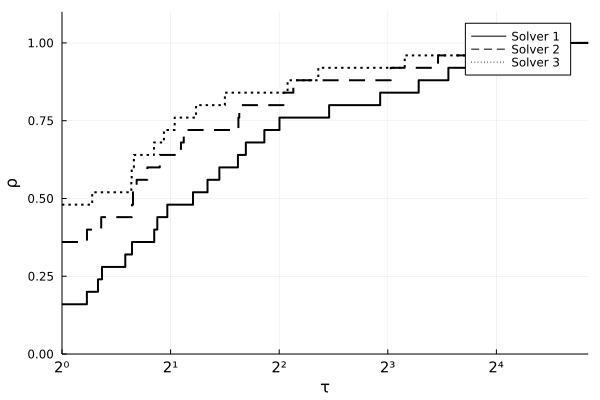
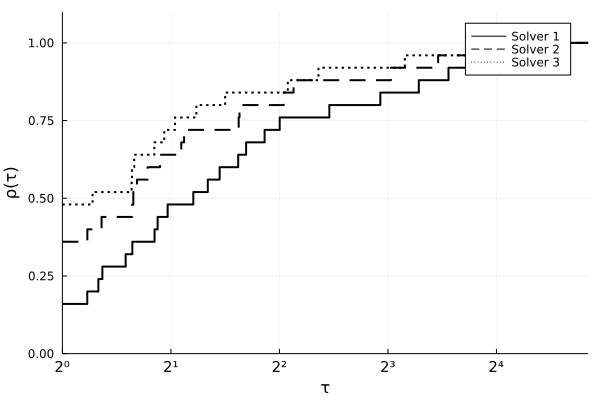
Deploying to gh-pages from  @ ca13c38b1c2d399cf62e2848e1e6c71c44630b0f 🚀

diff --git a/index.html b/index.html
@@ -1,4 +1,4 @@
-<!doctype html> <html lang=en  class=has-navbar-fixed-top > <meta charset=UTF-8 > <meta name=viewport  content="width=device-width, initial-scale=1"> <link rel=stylesheet  href="/libs/highlight/github.min.css"> <link rel=stylesheet  href="/css/styles.css"> <style> html {font-size: 17px;} .franklin-content {position: relative; padding-left: 8%; padding-right: 5%; line-height: 1.35em;} @media (min-width: 940px) { .franklin-content {width: 100%; margin-left: auto; margin-right: auto;} } @media (max-width: 768px) { .franklin-content {padding-left: 6%; padding-right: 6%;} } </style> <link rel=icon  href="/assets/favicon.png"> <title>Introduction to BenchmarkProfiles</title> <script src="/libs/highlight/highlight.pack.js"></script> <script src="https://unpkg.com/clipboard@2/dist/clipboard.min.js"></script> <script type=module  src="https://unpkg.com/ionicons@5.5.2/dist/ionicons/ionicons.esm.js"></script> <script nomodule src="https://unpkg.com/ionicons@5.5.2/dist/ionicons/ionicons.js"></script> <script> hljs.getLanguage('julia').keywords.custom = 'obj grad hess AbstractNLPModel'; </script> <nav class="navbar is-primary is-fixed-top" role=navigation  aria-label="main navigation"> <div class=navbar-brand > <a class=navbar-item  href="https://juliasmoothoptimizers.github.io"> <img src="/assets/jso.png"> </a> <a role=button  class=navbar-burger  aria-label=menu  aria-expanded=false  data-target=navbarBasicExample > <span aria-hidden=true ></span> <span aria-hidden=true ></span> <span aria-hidden=true ></span> </a> </div> <div id=navbarBasicExample  class=navbar-menu > <div class=navbar-start > <a class=navbar-item  href="/"> Home </a> <a class=navbar-item  href="/news-and-blogposts/"> News and Blogposts </a> <a class=navbar-item  href="/tutorials/"> Tutorials </a> <div class="navbar-item has-dropdown is-hoverable"> <a class=navbar-link  href="/ecosystems/index.html"> Ecosystems </a> <div class=navbar-dropdown > <a class=navbar-item  href="/ecosystems/linear-algebra/"> Linear Algebra </a> <a class=navbar-item  href="/ecosystems/models/"> Models </a> <a class=navbar-item  href="/ecosystems/solvers/"> Solvers </a> </div> </div> <a class=navbar-item  href="/references/"> References </a> <a class=navbar-item  href="/contributing/"> Contributing </a> </div> <div class=navbar-end > <div class=navbar-item > </div> </div> </div> </nav> <section class=section > <div class=container > <div class=content ><div class=franklin-content ><h1 id=title ><a href="#title" class=header-anchor >Introduction to BenchmarkProfiles</a></h1></p> <div class=author >by Abel Soares Siqueira and Dominique Orban</div> <p><a href="https://juliasmoothoptimizers.github.io/BenchmarkProfiles.jl/stable/"><img class=badge  src="https://img.shields.io/badge/BenchmarkProfiles-0.4.0-hsl(46,100%25,30%25)?style=flat-square&labelColor=hsl(46,30%25,30%25)"></a> <img class=badge  src="https://img.shields.io/badge/Plots-1.29.0-666?style=flat-square&labelColor=999"> <img class=badge  src="https://img.shields.io/badge/Random-nothing-666?style=flat-square&labelColor=999"> <p>This tutorial is essentially a collection of examples.</p> <h2 id=performance_profile ><a href="#performance_profile" class=header-anchor >Performance Profile</a></h2> <p>Performance profiles are straightforward to use. The input is a matrix <code>T</code> with entries <code>T&#91;i,j&#93;</code> indicating the cost to solve problem <code>i</code> using solver <code>j</code>. Cost can be, for instance, elapsed time, or number of evaluations. The cost should be positive. If any cost is zero, all measures will be shifted by 1.</p> <p>Basic usage:</p> <pre><code class=language-julia >using BenchmarkProfiles, Random, Plots
+<!doctype html> <html lang=en  class=has-navbar-fixed-top > <meta charset=UTF-8 > <meta name=viewport  content="width=device-width, initial-scale=1"> <link rel=stylesheet  href="/libs/highlight/github.min.css"> <link rel=stylesheet  href="/css/styles.css"> <style> html {font-size: 17px;} .franklin-content {position: relative; padding-left: 8%; padding-right: 5%; line-height: 1.35em;} @media (min-width: 940px) { .franklin-content {width: 100%; margin-left: auto; margin-right: auto;} } @media (max-width: 768px) { .franklin-content {padding-left: 6%; padding-right: 6%;} } </style> <link rel=icon  href="/assets/favicon.png"> <title>Introduction to BenchmarkProfiles</title> <script src="/libs/highlight/highlight.pack.js"></script> <script src="https://unpkg.com/clipboard@2/dist/clipboard.min.js"></script> <script type=module  src="https://unpkg.com/ionicons@5.5.2/dist/ionicons/ionicons.esm.js"></script> <script nomodule src="https://unpkg.com/ionicons@5.5.2/dist/ionicons/ionicons.js"></script> <script> hljs.getLanguage('julia').keywords.custom = 'obj grad hess AbstractNLPModel'; </script> <nav class="navbar is-primary is-fixed-top" role=navigation  aria-label="main navigation"> <div class=navbar-brand > <a class=navbar-item  href="https://juliasmoothoptimizers.github.io"> <img src="/assets/jso.png"> </a> <a role=button  class=navbar-burger  aria-label=menu  aria-expanded=false  data-target=navbarBasicExample > <span aria-hidden=true ></span> <span aria-hidden=true ></span> <span aria-hidden=true ></span> </a> </div> <div id=navbarBasicExample  class=navbar-menu > <div class=navbar-start > <a class=navbar-item  href="/"> Home </a> <a class=navbar-item  href="/news-and-blogposts/"> News and Blogposts </a> <a class=navbar-item  href="/tutorials/"> Tutorials </a> <div class="navbar-item has-dropdown is-hoverable"> <a class=navbar-link  href="/ecosystems/index.html"> Ecosystems </a> <div class=navbar-dropdown > <a class=navbar-item  href="/ecosystems/linear-algebra/"> Linear Algebra </a> <a class=navbar-item  href="/ecosystems/models/"> Models </a> <a class=navbar-item  href="/ecosystems/solvers/"> Solvers </a> </div> </div> <a class=navbar-item  href="/references/"> References </a> <a class=navbar-item  href="/contributing/"> Contributing </a> </div> <div class=navbar-end > <div class=navbar-item > </div> </div> </div> </nav> <section class=section > <div class=container > <div class=content ><div class=franklin-content ><h1 id=title ><a href="#title" class=header-anchor >Introduction to BenchmarkProfiles</a></h1></p> <div class=author >by Abel Soares Siqueira and Dominique Orban</div> <p><a href="https://juliasmoothoptimizers.github.io/BenchmarkProfiles.jl/stable/"><img class=badge  src="https://img.shields.io/badge/BenchmarkProfiles-0.4.0-hsl(46,100%25,30%25)?style=flat-square&labelColor=hsl(46,30%25,30%25)"></a> <img class=badge  src="https://img.shields.io/badge/Plots-1.29.1-666?style=flat-square&labelColor=999"> <img class=badge  src="https://img.shields.io/badge/Random-nothing-666?style=flat-square&labelColor=999"> <p>This tutorial is essentially a collection of examples.</p> <h2 id=performance_profile ><a href="#performance_profile" class=header-anchor >Performance Profile</a></h2> <p>Performance profiles are straightforward to use. The input is a matrix <code>T</code> with entries <code>T&#91;i,j&#93;</code> indicating the cost to solve problem <code>i</code> using solver <code>j</code>. Cost can be, for instance, elapsed time, or number of evaluations. The cost should be positive. If any cost is zero, all measures will be shifted by 1.</p> <p>Basic usage:</p> <pre><code class=language-julia >using BenchmarkProfiles, Random, Plots
 
 Random.seed&#33;&#40;0&#41;
 
@@ -9,5 +9,5 @@ performance_profile&#40;PlotsBackend&#40;&#41;, T, &#91;&quot;Solver 1&quot;, &q
 
 T &#61; 10 * rand&#40;25, 3&#41;
 performance_profile&#40;PlotsBackend&#40;&#41;, T, &#91;&quot;Solver 1&quot;, &quot;Solver 2&quot;, &quot;Solver 3&quot;&#93;,
-      lw&#61;2, c&#61;:black, linestyles&#61;&#91;:solid, :dash, :dot&#93;, xlabel&#61;&quot;\\tau&quot;&#41;
-ylabel&#33;&#40;&quot;\\rho&#40;\\tau&#41;&quot;&#41;</code></pre> <figure> <img class=image  src="/introduction-to-benchmarkprofiles/assets/pp4.png"> <figcaption></figcaption> </figure> </div> </div> </div> </div> </section> <script>hljs.initHighlightingOnLoad(); hljs.configure({ tabReplace: ' ' });</script> <script> (function () { // Get the elements. // - the 'pre' element. // - the 'div' with the 'paste-content' id. var pre = document.getElementsByTagName('pre'); // Add a copy button in the 'pre' element with className language-julia for (var i = 0; i < pre.length; i++) { var isLanguage = pre[i].children[0].className.indexOf('language-julia'); if (isLanguage === 0) { var ion_icon = document.createElement('ion-icon'); ion_icon.name = 'copy'; var icon = document.createElement('span'); icon.className = 'icon has-text-primary'; icon.appendChild(ion_icon); var button = document.createElement('button'); button.className = 'button copy-button is-light is-primary'; button.appendChild(icon); pre[i].appendChild(button); } }; // Run Clipboard var copyCode = new ClipboardJS('.copy-button', { target: function (trigger) { return trigger.previousElementSibling; } }); copyCode.on('success', function (event) { event.clearSelection(); var btn = event.trigger; var old_button_class = btn.className; var old_icon_class = btn.children[0].className; btn.className = 'button copy-button is-primary'; btn.children[0].className = 'icon has-text-white'; window.setTimeout(function () { event.trigger.className = old_button_class; event.trigger.children[0].className = old_icon_class; }, 1000); }); })(); </script> <footer class=footer > <div class="content has-text-centered is-small"> &copy; Abel Soares Siqueira. <br> Last modified: June 07, 2022.<br> <a class=link  href="https://github.com/JuliaSmoothOptimizers/">JSO at GitHub</a> </div> </footer>
+      lw&#61;2, c&#61;:black, linestyles&#61;&#91;:solid, :dash, :dot&#93;, xlabel&#61;&quot;τ&quot;&#41;
+ylabel&#33;&#40;&quot;ρ&#40;τ&#41;&quot;&#41;</code></pre> <figure> <img class=image  src="/introduction-to-benchmarkprofiles/assets/pp4.png"> <figcaption></figcaption> </figure> </div> </div> </div> </div> </section> <script>hljs.initHighlightingOnLoad(); hljs.configure({ tabReplace: ' ' });</script> <script> (function () { // Get the elements. // - the 'pre' element. // - the 'div' with the 'paste-content' id. var pre = document.getElementsByTagName('pre'); // Add a copy button in the 'pre' element with className language-julia for (var i = 0; i < pre.length; i++) { var isLanguage = pre[i].children[0].className.indexOf('language-julia'); if (isLanguage === 0) { var ion_icon = document.createElement('ion-icon'); ion_icon.name = 'copy'; var icon = document.createElement('span'); icon.className = 'icon has-text-primary'; icon.appendChild(ion_icon); var button = document.createElement('button'); button.className = 'button copy-button is-light is-primary'; button.appendChild(icon); pre[i].appendChild(button); } }; // Run Clipboard var copyCode = new ClipboardJS('.copy-button', { target: function (trigger) { return trigger.previousElementSibling; } }); copyCode.on('success', function (event) { event.clearSelection(); var btn = event.trigger; var old_button_class = btn.className; var old_icon_class = btn.children[0].className; btn.className = 'button copy-button is-primary'; btn.children[0].className = 'icon has-text-white'; window.setTimeout(function () { event.trigger.className = old_button_class; event.trigger.children[0].className = old_icon_class; }, 1000); }); })(); </script> <footer class=footer > <div class="content has-text-centered is-small"> &copy; Abel Soares Siqueira. <br> Last modified: June 10, 2022.<br> <a class=link  href="https://github.com/JuliaSmoothOptimizers/">JSO at GitHub</a> </div> </footer>

diff --git a/assets/literate/index.md b/assets/literate/index.md
@@ -47,8 +47,8 @@ using Plots
 
 T = 10 * rand(25, 3)
 performance_profile(PlotsBackend(), T, ["Solver 1", "Solver 2", "Solver 3"],
-      lw=2, c=:black, linestyles=[:solid, :dash, :dot], xlabel="\\tau")
-ylabel!("\\rho(\\tau)")
+      lw=2, c=:black, linestyles=[:solid, :dash, :dot], xlabel="τ")
+ylabel!("ρ(τ)")
 png(joinpath("__site/assets", "pp4")) # hide
 ````
 
